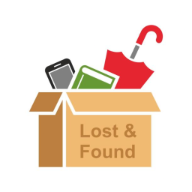
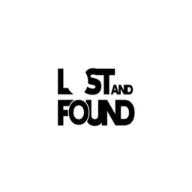
Favico change and ready to deploy mvp

diff --git a/src/components/Postcomponent.js b/src/components/Postcomponent.js
@@ -1,4 +1,5 @@
 import React, { useState, useEffect } from 'react';
+import { Link } from 'react-router-dom';
 import {
     Box,
     Typography,
@@ -11,15 +12,16 @@ import {
     CircularProgress,
     Divider,
     IconButton,
+
 } from '@mui/material';
 import Slider from 'react-slick';
 import WhatsAppIcon from '@mui/icons-material/WhatsApp';
 import EmailIcon from '@mui/icons-material/Email';
-import ExpandMoreIcon from '@mui/icons-material/ExpandMore';
 import EditIcon from '@mui/icons-material/Edit';
 import DeleteIcon from '@mui/icons-material/Delete';
 import { useMediaQuery } from '@mui/material';
-import config from '../config';
+
+
 
 const PostComponent = ({ post }) => {
     const [email, setEmail] = useState('');
@@ -37,7 +39,7 @@ const PostComponent = ({ post }) => {
     useEffect(() => {
         const fetchUser = async () => {
             try {
-                const response = await fetch(`${config.BASE_URL}/auth/user/${post.uid}`);
+                const response = await fetch(`${process.env.REACT_APP_BASE_URL}/auth/user/${post.uid}`);
                 const data = await response.json();
                 setProfilePhoto(data.profilePhotoUrl);
                 setWhatsapp(data.whatsappNumber);
@@ -75,7 +77,7 @@ const PostComponent = ({ post }) => {
         setNewComment('');
 
         try {
-            const response = await fetch(`${config.BASE_URL}/post/${post._id}/comment`, {
+            const response = await fetch(`${process.env.REACT_APP_BASE_URL}/post/${post._id}/comment`, {
                 method: 'POST',
                 headers: {
                     'Content-Type': 'application/json',
@@ -108,7 +110,7 @@ const PostComponent = ({ post }) => {
         // console.log(commentId);
 
         try {
-            const response = await fetch(`${config.BASE_URL}/post/${post._id}/comment/${commentId}`, {
+            const response = await fetch(`${process.env.REACT_APP_BASE_URL}/post/${post._id}/comment/${commentId}`, {
                 method: 'PUT',
                 headers: {
                     'Content-Type': 'application/json',
@@ -139,7 +141,7 @@ const PostComponent = ({ post }) => {
         setCommentLoading(true);
 
         try {
-            const response = await fetch(`${config.BASE_URL}/post/${post._id}/comment/${commentId}`, {
+            const response = await fetch(`${process.env.REACT_APP_BASE_URL}/post/${post._id}/comment/${commentId}`, {
                 method: 'DELETE',
             });
 
@@ -177,14 +179,18 @@ const PostComponent = ({ post }) => {
 
     const isSmallScreen = useMediaQuery('(max-width:600px)');
 
+    // console.log(post);
     return (
+
         <Card sx={{ margin: '20px 0', padding: '20px', ...postTypeStyles[post.postType] }}>
             {loadingUser ? (
                 <CircularProgress />
             ) : (
                 <Box display="flex" alignItems="center" mb={2}>
                     <Avatar alt="User Avatar" src={profilePhoto} sx={{ width: 56, height: 56 }} />
-                    <Typography variant="h6" ml={2}>{name}</Typography>
+                    <Typography variant="h6" ml={2} component={Link} to={`/profile/${post.uid}`} style={{ textDecoration: 'none', color: 'inherit' }}>
+                        {name}
+                    </Typography>
                 </Box>
             )}
 
@@ -223,15 +229,15 @@ const PostComponent = ({ post }) => {
             </CardContent>
 
             <Box display="flex" justifyContent="space-between" mt={2}>
-            <Button
-            variant="outlined"
-            onClick={() => setShowComments(!showComments)}
-            fullWidth
-            sx={{ marginRight: '10px', padding: '10px', fontSize: '0.775rem' }}
-           
-        >
-            {showComments ? (isSmallScreen ? '💬' : 'Hide Comments') : (isSmallScreen ? '💬' : 'Show Comments')}
-        </Button>
+                <Button
+                    variant="outlined"
+                    onClick={() => setShowComments(!showComments)}
+                    fullWidth
+                    sx={{ marginRight: '10px', padding: '10px', fontSize: '0.775rem' }}
+
+                >
+                    {showComments ? (isSmallScreen ? '💬' : 'Hide Comments') : (isSmallScreen ? '💬' : 'Show Comments')}
+                </Button>
                 <Button
                     variant="contained"
                     color="success"
@@ -268,16 +274,16 @@ const PostComponent = ({ post }) => {
                     <Divider sx={{ marginY: 1 }} />
                     {comments.map((comment, index) => (
                         <Box key={index} display="flex" mb={2} alignItems="center">
-                            <Typography variant="body2" fontWeight="bold" fontSize={15} mr={2}>
-                                {comment.userName}:
+                            <Typography variant="body2" fontWeight="bold" fontSize={15} mr={2} component={Link} to={`/profile/${comment.userId}`} style={{ textDecoration: 'none', color: 'inherit' }}>
+                                {comment.userName } :
                             </Typography>
 
                             {editingCommentId === comment._id ? (
-                                <Box 
-                                    sx={{ 
-                                        display: 'flex', 
+                                <Box
+                                    sx={{
+                                        display: 'flex',
                                         flexDirection: { xs: 'column', sm: 'row' },  // Stack on small screens
-                                        alignItems: { xs: 'stretch', sm: 'center' }, 
+                                        alignItems: { xs: 'stretch', sm: 'center' },
                                         gap: 1  // Add space between elements
                                     }}
                                 >
@@ -293,7 +299,7 @@ const PostComponent = ({ post }) => {
                                         variant="contained"
                                         color="primary"
                                         onClick={() => handleSaveEditedComment(comment._id)}
-                                        sx={{ 
+                                        sx={{
                                             height: '35px',  // Slightly larger for touch-friendly
                                             mt: { xs: '8px', sm: 0 }  // Add margin-top on small screens for spacing
                                         }}
@@ -302,9 +308,9 @@ const PostComponent = ({ post }) => {
                                     </Button>
                                     <IconButton
                                         onClick={() => setEditingCommentId(null)}
-                                        sx={{ 
-                                            color: 'gray', 
-                                            fontSize: '18px', 
+                                        sx={{
+                                            color: 'gray',
+                                            fontSize: '18px',
                                             mt: { xs: '8px', sm: 0 }  // Add margin-top for small screens
                                         }}
                                     >
@@ -312,12 +318,12 @@ const PostComponent = ({ post }) => {
                                     </IconButton>
                                 </Box>
                             ) : (
-                                <Box 
-                                    sx={{ 
-                                        display: 'flex', 
-                                        flexDirection: { xs: 'column', sm: 'row' }, 
-                                        alignItems: { xs: 'flex-start', sm: 'center' }, 
-                                        gap: 1 
+                                <Box
+                                    sx={{
+                                        display: 'flex',
+                                        flexDirection: { xs: 'column', sm: 'row' },
+                                        alignItems: { xs: 'flex-start', sm: 'center' },
+                                        gap: 1
                                     }}
                                 >
                                     <Typography variant="body2" sx={{ flexGrow: 1 }}>
@@ -325,13 +331,13 @@ const PostComponent = ({ post }) => {
                                     </Typography>
                                     {comment.userId === localStorage.getItem('uid') && (
                                         <>
-                                            <IconButton 
+                                            <IconButton
                                                 onClick={() => handleEditComment(comment._id, comment.comment)}
                                                 sx={{ p: 0.5 }}  // Smaller padding for a more compact look
                                             >
                                                 <EditIcon sx={{ fontSize: 15, color: '#4caf50' }} />
                                             </IconButton>
-                                            <IconButton 
+                                            <IconButton
                                                 onClick={() => handleDeleteComment(comment._id)}
                                                 sx={{ p: 0.5 }}
                                             >
@@ -341,8 +347,8 @@ const PostComponent = ({ post }) => {
                                     )}
                                 </Box>
                             )}
-                            
-                            
+
+
                         </Box>
                     ))}
                 </Box>

diff --git a/src/components/viewprofile.js b/src/components/viewprofile.js
@@ -1,0 +1,54 @@
+import React, { useEffect, useState } from 'react';
+import { useParams } from 'react-router-dom';
+import { Box, Typography, Avatar, CircularProgress } from '@mui/material';
+import Header from './Header'; // Import your header component
+import Footer from './footer'; // Import your footer component
+
+const ViewProfile = () => {
+    const { userId } = useParams();
+    const [userDetails, setUserDetails] = useState(null);
+    const [loading, setLoading] = useState(true);
+
+    useEffect(() => {
+        const fetchUserDetails = async () => {
+            try {
+                const response = await fetch(`${process.env.REACT_APP_BASE_URL}/auth/user/${userId}`);
+                const data = await response.json();
+                setUserDetails(data);
+            } catch (error) {
+                console.error('Error fetching user details:', error);
+            } finally {
+                setLoading(false);
+            }
+        };
+
+        fetchUserDetails();
+    }, [userId]);
+
+    if (loading) return <CircularProgress />;
+
+    if (!userDetails) return <Typography>No user found.</Typography>;
+
+    return (
+        <Box sx={{ display: 'flex', flexDirection: 'column', minHeight: '100vh' }}>
+            <Header /> {/* Add Header here */}
+            <Box sx={{ padding: '20px', flexGrow: 1 }}>
+                <Box display="flex" flexDirection="column" alignItems="center">
+                    <Avatar
+                        alt={userDetails.name}
+                        src={userDetails.profilePhotoUrl}
+                        sx={{ width: 100, height: 100, marginBottom: '20px' }}
+                    />
+                    <Typography variant="h5">{userDetails.name}</Typography>
+                    <Typography variant="body1">Email: {userDetails.email}</Typography>
+                    <Typography variant="body1">WhatsApp: {userDetails.whatsappNumber}</Typography>
+                    <Typography variant="body1">Lives in Hostel: {userDetails.hostelName}</Typography>
+                  
+                </Box>
+            </Box>
+            <Footer /> 
+        </Box>
+    );
+};
+
+export default ViewProfile;

diff --git a/src/components/Home.js b/src/components/Home.js
@@ -21,7 +21,6 @@ import MuiAlert from '@mui/material/Alert';
 import PhotoCamera from '@mui/icons-material/PhotoCamera';
 import DeleteIcon from '@mui/icons-material/Delete';
 import Header from './Header';
-import config from '../config';
 import PostComponent from './Postcomponent'; // Import PostComponent
 
 const Home = () => {
@@ -52,7 +51,7 @@ const Home = () => {
     useEffect(() => {
         const fetchPosts = async () => {
             try {
-                const response = await fetch(`${config.BASE_URL}/post/`);
+                const response = await fetch(`${process.env.REACT_APP_BASE_URL}/post/`);
                 const data = await response.json();
                 setPosts(data);
             } catch (error) {
@@ -76,7 +75,7 @@ const Home = () => {
         images.forEach((image) => formData.append('images', image));
 
         try {
-            const response = await fetch(`${config.BASE_URL}/post/`, {
+            const response = await fetch(`${process.env.REACT_APP_BASE_URL}/post/`, {
                 method: 'POST',
                 body: formData,
             });

diff --git a/src/components/Register.js b/src/components/Register.js
@@ -1,7 +1,6 @@
 import React, { useState } from 'react';
 import { TextField, Button, Typography, Box, MenuItem, Link, Snackbar, Alert } from '@mui/material';
 import { useNavigate } from 'react-router-dom';
-import config from '../config';
 import { getAuth, sendEmailVerification, signInWithEmailAndPassword } from 'firebase/auth';
 import { app } from '../firebase'; // Ensure you have initialized your Firebase app somewhere
 import Layout from './layout';
@@ -53,7 +52,7 @@ const Register = () => {
             }
 
             // Send registration request to backend
-            const response = await fetch(`${config.BASE_URL}/auth/register`, {
+            const response = await fetch(`${process.env.REACT_APP_BASE_URL}/auth/register`, {
                 method: 'POST',
                 body: formData,
             });

diff --git a/src/App.js b/src/App.js
@@ -7,7 +7,7 @@ import Login from './components/Login';
 import EditProfile from './components/EditProfile';
 import './App.css';
 import MyProfile from './components/myprofile';
-
+import ViewProfile from './components/viewprofile';
 const isAuthenticated = () => {
     return !!localStorage.getItem('authToken');
 };
@@ -27,6 +27,7 @@ function App() {
                     <Route path="/home" element={<PrivateRoute element={<HomePage />} />} />
                     <Route path="/editprofile" element={<PrivateRoute element={<EditProfile />} />} />
                     <Route path="/myprofile" element={<PrivateRoute element={<MyProfile />} />} />
+                    <Route path="/profile/:userId" element={<ViewProfile />} />
                 </Routes>
             </Container>
         </Router>

diff --git a/src/config.js b/src/config.js
@@ -1,5 +1,3 @@
-const config = {
-    BASE_URL: process.env.REACT_APP_BASE_URL || 'http://localhost:5000',
-};
-
-export default config;
+const BASE_URL = process.env.REACT_APP_BASE_URL;
+// console.log(BASE_URL);
+export default BASE_URL;
